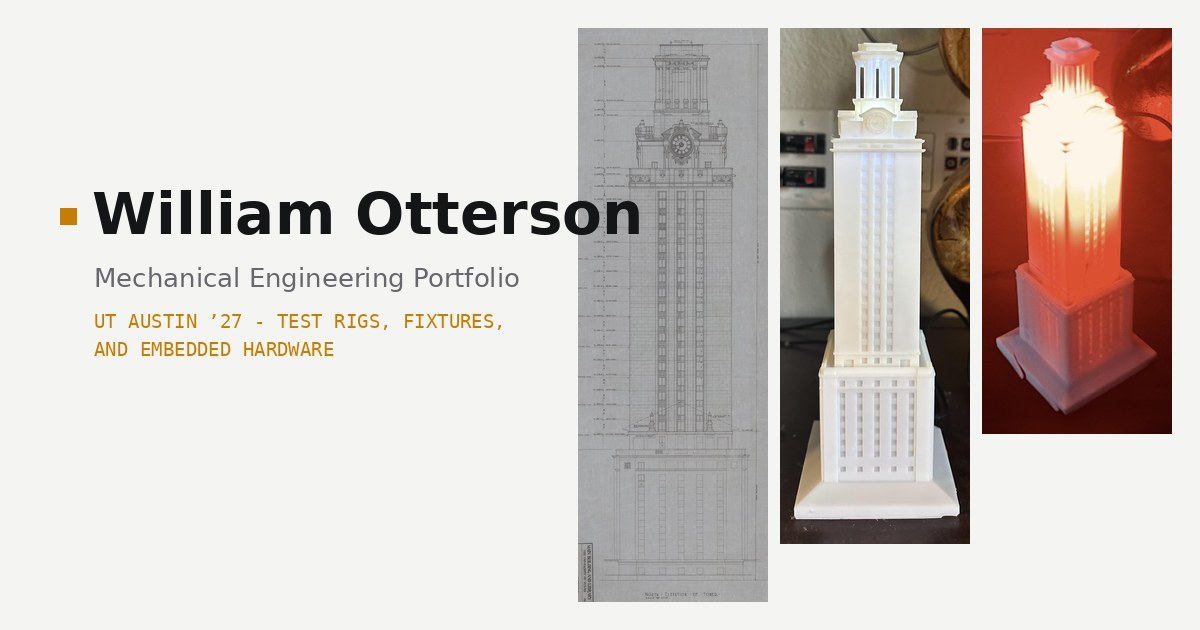
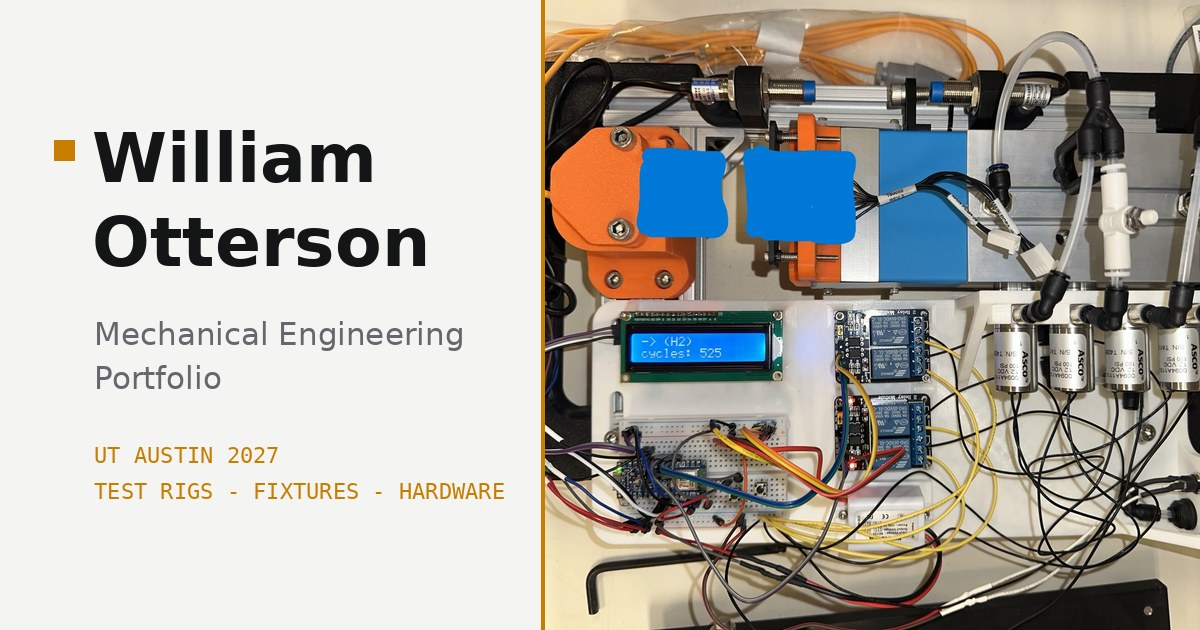
update

diff --git a/projects/international-biomedical.html b/projects/international-biomedical.html
@@ -1,0 +1,101 @@
+<!DOCTYPE html>
+<html lang="en">
+<head>
+<meta charset="utf-8">
+<meta name="viewport" content="width=device-width, initial-scale=1">
+<title>Neonatal phototherapy R&D, International Biomedical - William Otterson</title>
+<meta name="description" content="Current mechanical engineering internship at International Biomedical: physical design of a neonatal phototherapy device, freeform lens development, and test rigs for optics qualification.">
+<link rel="preconnect" href="https://fonts.googleapis.com">
+<link rel="preconnect" href="https://fonts.gstatic.com" crossorigin>
+<link href="https://fonts.googleapis.com/css2?family=Inter:wght@400;500;600;700&family=JetBrains+Mono:wght@400;500&display=swap" rel="stylesheet">
+<link rel="stylesheet" href="../style.css">
+<link rel="icon" type="image/png" href="../assets/img/favicon.png">
+<link rel="apple-touch-icon" href="../assets/img/apple-touch-icon.png">
+<meta property="og:type" content="website">
+<meta property="og:title" content="Neonatal phototherapy R&D, International Biomedical - William Otterson">
+<meta property="og:description" content="Current mechanical engineering internship at International Biomedical: physical design of a neonatal phototherapy device, freeform lens development, and test rigs for optics qualification.">
+<meta property="og:image" content="https://ottercadgh.github.io/assets/img/og-preview.jpg">
+<meta property="og:url" content="https://ottercadgh.github.io/projects/international-biomedical.html">
+<meta name="twitter:card" content="summary_large_image">
+</head>
+<body>
+
+<header class="site"><div class="wrap">
+  <a class="brand" href="../index.html"><i></i>William Otterson</a>
+  <nav><a class="on" href="../index.html#work">Work</a><a href="../index.html#about">About</a><a href="#" data-contact>Contact</a><a class="btn" href="../assets/WilliamOtterson_Resume.pdf" target="_blank" rel="noopener">Resume</a></nav>
+</div></header>
+
+<main class="wrap">
+
+  <div class="phead">
+    <div class="eyebrow">International Biomedical &middot; Mechanical Engineering Intern &middot; May 2026 to present</div>
+    <h1>Designing a phototherapy device for newborns</h1>
+    <p class="lede">My current internship. I lead the physical design of a neonatal phototherapy device, from concept through ten prototypes to a tested working unit: LEDs, optics, thermal management, internal packaging, and the enclosure, against clinical and regulatory requirements.</p>
+  </div>
+
+  <div class="glance">
+    <div><span class="k">Outcome</span><b>Working prototype, validated against the market leader</b>: intensive-level irradiance of 30 uW/cm2/nm or more across 99% of the treatment target</div>
+    <div><span class="k">My role</span>Physical design lead: component selection, optics, thermal, packaging, enclosure, plus the test rigs to qualify all of it</div>
+    <div><span class="k">Constraints</span>Clinical and regulatory requirements; ongoing commercial program, so specifics stay at resume level here</div>
+    <div><span class="k">Skills</span>Optics for illumination, thermal design, test rig design, GD&amp;T tooling, radiometric measurement</div>
+  </div>
+
+  <div class="narrow">
+    <h2>Setting the target, then beating it</h2>
+    <p>The program started with a benchmark: I mapped a leading competitor device with seven-point thermocouple measurements, irradiance readings across its operating modes, and power draw analysis, so our own targets were numbers rather than opinions. The prototype that came out of the program was then validated the same way, with a bili radiometer against the market-leading device: AAP intensive-level irradiance, 30 uW/cm2/nm or more, across 99% of the treatment target.</p>
+    <h2>The lens</h2>
+    <p>Illumination uniformity is the hard optical problem in phototherapy. I designed a freeform lens that reached 99.6% illumination uniformity, against 94.2% for a leading competitor lens, and built the workflow to iterate it in house: printed lens prototypes in a day instead of outside optics vendor timelines. The lens design runs through an in-house computational lens synthesizer I created; the program itself is proprietary, so that is all I can say about it here.</p>
+    <p>Printed optics had to earn their place before machined acrylic vendors got involved, so I built a blackbox transmission rig and measured the clear-coated SLA lenses at 93% white and 88% blue transmission.</p>
+    <h2>The unglamorous parts that ship</h2>
+    <p>I built FDM printed assembly jigs with GD&amp;T callouts through three revisions that halved adhesive strip application time while holding repeatable bezel alignment. Weekly design reviews to engineering leadership across an 11 week program kept all of it honest.</p>
+  </div>
+
+  <section class="tech">
+    <h2>Technical details</h2>
+    <div class="inner">
+      <table class="spec">
+        <tr><th>Device</th><td>Neonatal phototherapy unit; I lead physical design through 10 prototypes to a tested working unit</td></tr>
+        <tr><th>Benchmarking</th><td>Competitor device mapped with 7-point thermocouples, irradiance across operating modes, and power draw</td></tr>
+        <tr><th>Lens</th><td>Freeform lens at 99.6% illumination uniformity vs 94.2% for a leading competitor; designed with a proprietary in-house lens synthesizer I created (details withheld)</td></tr>
+        <tr><th>Optics qualification</th><td>Blackbox transmission rig: 93% white and 88% blue transmission through clear-coated SLA lenses</td></tr>
+        <tr><th>Validation</th><td>Bili radiometer vs the market-leading device: 30 uW/cm2/nm or more across 99% of the treatment target</td></tr>
+        <tr><th>Production support</th><td>FDM assembly jigs with GD&amp;T callouts, 3 revisions, halved adhesive strip application time</td></tr>
+        <tr><th>Status</th><td>Ongoing internship; this page stays at resume-level detail</td></tr>
+      </table>
+    </div>
+  </section>
+
+  <p class="note">This is an active commercial program, so there are no images here and the in-house software is described only by what it produces.</p>
+
+  <div class="pn">
+    <a href="../index.html#about">&larr; Back to about</a>
+    <a href="../index.html#work">All work &rarr;</a>
+  </div>
+
+</main>
+
+<footer class="site"><div class="wrap">
+  <span><a href="mailto:william.w.otterson@gmail.com">william.w.otterson@gmail.com</a> &middot; <a href="https://www.linkedin.com/in/williamwotterson">LinkedIn</a> &middot; <a href="https://github.com/OtterCadGH">GitHub</a></span>
+  <span>&copy; 2026 William Otterson &middot; Austin, TX</span>
+</div></footer>
+
+
+<dialog id="contact-dlg">
+  <h3>Contact</h3>
+  <p class="cd-row"><span>Email</span><a href="mailto:william.w.otterson@gmail.com">william.w.otterson@gmail.com</a></p>
+  <p class="cd-row"><span>Phone</span><a href="tel:+18087405886">(808) 740 5886</a></p>
+  <p class="cd-row"><span>LinkedIn</span><a href="https://www.linkedin.com/in/williamwotterson" target="_blank" rel="noopener">in/williamwotterson</a></p>
+  <button id="contact-close" type="button">Close</button>
+</dialog>
+<script>
+(function(){
+  var d = document.getElementById('contact-dlg');
+  document.querySelectorAll('a[data-contact]').forEach(function(a){
+    a.addEventListener('click', function(e){ e.preventDefault(); d.showModal(); });
+  });
+  document.getElementById('contact-close').addEventListener('click', function(){ d.close(); });
+  d.addEventListener('click', function(e){ if (e.target === d) d.close(); });
+})();
+</script>
+</body>
+</html>

diff --git a/projects/smith-nephew.html b/projects/smith-nephew.html
@@ -1,0 +1,100 @@
+<!DOCTYPE html>
+<html lang="en">
+<head>
+<meta charset="utf-8">
+<meta name="viewport" content="width=device-width, initial-scale=1">
+<title>R&D co-op, Smith+Nephew - William Otterson</title>
+<meta name="description" content="Seven months of medical device R&D at Smith+Nephew ENT: test rigs, production fixtures, a thermal redesign to IEC 60601, and the in-house print farm.">
+<link rel="preconnect" href="https://fonts.googleapis.com">
+<link rel="preconnect" href="https://fonts.gstatic.com" crossorigin>
+<link href="https://fonts.googleapis.com/css2?family=Inter:wght@400;500;600;700&family=JetBrains+Mono:wght@400;500&display=swap" rel="stylesheet">
+<link rel="stylesheet" href="../style.css">
+<link rel="icon" type="image/png" href="../assets/img/favicon.png">
+<link rel="apple-touch-icon" href="../assets/img/apple-touch-icon.png">
+<meta property="og:type" content="website">
+<meta property="og:title" content="R&D co-op, Smith+Nephew - William Otterson">
+<meta property="og:description" content="Seven months of medical device R&D at Smith+Nephew ENT: test rigs, production fixtures, a thermal redesign to IEC 60601, and the in-house print farm.">
+<meta property="og:image" content="https://ottercadgh.github.io/assets/img/og-preview.jpg">
+<meta property="og:url" content="https://ottercadgh.github.io/projects/smith-nephew.html">
+<meta name="twitter:card" content="summary_large_image">
+</head>
+<body>
+
+<header class="site"><div class="wrap">
+  <a class="brand" href="../index.html"><i></i>William Otterson</a>
+  <nav><a class="on" href="../index.html#work">Work</a><a href="../index.html#about">About</a><a href="#" data-contact>Contact</a><a class="btn" href="../assets/WilliamOtterson_Resume.pdf" target="_blank" rel="noopener">Resume</a></nav>
+</div></header>
+
+<main class="wrap">
+
+  <div class="phead">
+    <div class="eyebrow">Smith+Nephew &middot; R&amp;D Engineer Co-op, ENT &middot; Jun to Dec 2025</div>
+    <h1>Seven months of building the things that test the things</h1>
+    <p class="lede">A co-op on an electrosurgical controller program in medical device R&amp;D. The two biggest builds have their own pages: the <a href="connector-cycler.html">connector lifetime test rig</a> and the <a href="press-fixture.html">pneumatic lamination press</a>. This page covers the rest of the job.</p>
+  </div>
+
+  <div class="glance">
+    <div><span class="k">Outcome</span><b>Two fixtures handed off with full documentation</b>, a thermal redesign to IEC 60601 compliance, and a 3.5x stronger test fixture released through change control</div>
+    <div><span class="k">My role</span>R&amp;D engineering co-op: test rigs, fixtures, thermal work, and the in-house print farm</div>
+    <div><span class="k">Constraints</span>Medical device rigor: everything documented, everything through change control; proprietary hardware, so no photos beyond the two project pages</div>
+    <div><span class="k">Skills</span>Test rig design, pneumatics, thermal instrumentation, Python data logging, DFM, PLM change control, additive manufacturing</div>
+  </div>
+
+  <div class="narrow">
+    <h2>The thermal redesign</h2>
+    <p>The controller had components running hotter than IEC 60601 allows. I instrumented the unit with 16 thermocouples, logged everything in Python, and used the maps to drive a cooling redesign that brought component temperatures down 5 degrees C to compliant levels. The same data made the case for the change in review, which mattered as much as the fix.</p>
+    <h2>The ablation fixture, 3.5x stronger</h2>
+    <p>A 3D printed ablation test fixture kept snapping its locating pin. The failure was print orientation: FDM layer lines ran perpendicular to the bending load and acted as a shear plane. I split the pin into a separate keyed body so the base prints upright and the pin prints with its layers along the load path, then quantified the fix with a cantilever test before release. Bending strength improved about 3.5x, and the fixture was released as a new revision through PLM change control with 15+ cross-functional signatures.</p>
+    <h2>The print farm</h2>
+    <p>I also ran the team's in-house additive manufacturing: seven FDM and SLA printers (Fortus, Bambu Lab, Asiga), tuning print parameters and materials so parts came out strong enough to test with and fast enough to keep programs moving.</p>
+    <h2>The two big builds</h2>
+    <p>The <a href="connector-cycler.html">connector cycler</a> ran 7,500 verified plug/unplug cycles per receptacle and caught an undocumented vendor spring substitution before formal testing. The <a href="press-fixture.html">lamination press</a> bonds the controller's front assembly at 125 lb for 10 s with no electronics in the control path. Both pages have photos, video, and full technical detail.</p>
+  </div>
+
+  <section class="tech">
+    <h2>Technical details</h2>
+    <div class="inner">
+      <table class="spec">
+        <tr><th>Program</th><td>Electrosurgical controller, ENT division, Austin TX</td></tr>
+        <tr><th>Thermal</th><td>16-thermocouple mapping with Python logging; cooling redesign brought components down 5 C to IEC 60601 compliant levels</td></tr>
+        <tr><th>Ablation fixture</th><td>Layer-orientation redesign of a failing locating pin; ~3.5x bending strength, proven by cantilever test, released via PLM with 15+ signatures</td></tr>
+        <tr><th>Print farm</th><td>7 FDM and SLA printers (Fortus, Bambu Lab, Asiga); parameters and materials tuned for strength and throughput</td></tr>
+        <tr><th>Dedicated pages</th><td><a href="connector-cycler.html">Connector lifetime test rig</a> &middot; <a href="press-fixture.html">Pneumatic lamination press</a></td></tr>
+      </table>
+    </div>
+  </section>
+
+  <p class="note">The hardware is proprietary; the only photos are on the two project pages, with the connector obscured.</p>
+
+  <div class="pn">
+    <a href="../index.html#about">&larr; Back to about</a>
+    <a href="../index.html#work">All work &rarr;</a>
+  </div>
+
+</main>
+
+<footer class="site"><div class="wrap">
+  <span><a href="mailto:william.w.otterson@gmail.com">william.w.otterson@gmail.com</a> &middot; <a href="https://www.linkedin.com/in/williamwotterson">LinkedIn</a> &middot; <a href="https://github.com/OtterCadGH">GitHub</a></span>
+  <span>&copy; 2026 William Otterson &middot; Austin, TX</span>
+</div></footer>
+
+
+<dialog id="contact-dlg">
+  <h3>Contact</h3>
+  <p class="cd-row"><span>Email</span><a href="mailto:william.w.otterson@gmail.com">william.w.otterson@gmail.com</a></p>
+  <p class="cd-row"><span>Phone</span><a href="tel:+18087405886">(808) 740 5886</a></p>
+  <p class="cd-row"><span>LinkedIn</span><a href="https://www.linkedin.com/in/williamwotterson" target="_blank" rel="noopener">in/williamwotterson</a></p>
+  <button id="contact-close" type="button">Close</button>
+</dialog>
+<script>
+(function(){
+  var d = document.getElementById('contact-dlg');
+  document.querySelectorAll('a[data-contact]').forEach(function(a){
+    a.addEventListener('click', function(e){ e.preventDefault(); d.showModal(); });
+  });
+  document.getElementById('contact-close').addEventListener('click', function(){ d.close(); });
+  d.addEventListener('click', function(e){ if (e.target === d) d.close(); });
+})();
+</script>
+</body>
+</html>

diff --git a/projects/gopro.html b/projects/gopro.html
@@ -1,0 +1,83 @@
+<!DOCTYPE html>
+<html lang="en">
+<head>
+<meta charset="utf-8">
+<meta name="viewport" content="width=device-width, initial-scale=1">
+<title>Product evaluation, GoPro - William Otterson</title>
+<meta name="description" content="Field testing a pre-release GoPro accessory prototype on Maui that shipped as the GoPro Volta.">
+<link rel="preconnect" href="https://fonts.googleapis.com">
+<link rel="preconnect" href="https://fonts.gstatic.com" crossorigin>
+<link href="https://fonts.googleapis.com/css2?family=Inter:wght@400;500;600;700&family=JetBrains+Mono:wght@400;500&display=swap" rel="stylesheet">
+<link rel="stylesheet" href="../style.css">
+<link rel="icon" type="image/png" href="../assets/img/favicon.png">
+<link rel="apple-touch-icon" href="../assets/img/apple-touch-icon.png">
+<meta property="og:type" content="website">
+<meta property="og:title" content="Product evaluation, GoPro - William Otterson">
+<meta property="og:description" content="Field testing a pre-release GoPro accessory prototype on Maui that shipped as the GoPro Volta.">
+<meta property="og:image" content="https://ottercadgh.github.io/assets/img/og-preview.jpg">
+<meta property="og:url" content="https://ottercadgh.github.io/projects/gopro.html">
+<meta name="twitter:card" content="summary_large_image">
+</head>
+<body>
+
+<header class="site"><div class="wrap">
+  <a class="brand" href="../index.html"><i></i>William Otterson</a>
+  <nav><a class="on" href="../index.html#work">Work</a><a href="../index.html#about">About</a><a href="#" data-contact>Contact</a><a class="btn" href="../assets/WilliamOtterson_Resume.pdf" target="_blank" rel="noopener">Resume</a></nav>
+</div></header>
+
+<main class="wrap">
+
+  <div class="phead">
+    <div class="eyebrow">GoPro &middot; Product Evaluation Tester &middot; Jan to Mar 2022, Maui, HI</div>
+    <h1>Field testing what became the GoPro Volta</h1>
+    <p class="lede">A short early gig, and my first taste of structured product development: field testing a functional pre-release accessory prototype for GoPro and feeding usability findings back to the team before launch.</p>
+  </div>
+
+  <div class="narrow">
+    <p>GoPro placed a working prototype of an unreleased accessory with testers on Maui, and I put it through real use: surf, sand, salt water, and everyday handling, the environment the product was actually built for. My job was to report structured usability feedback, what worked, what fought me, what broke and how, in a form the development team could act on. The product shipped as the GoPro Volta.</p>
+    <p>It was a small role, but it is where I first saw the loop I now work inside from the other end: prototype, put it in real conditions, write down what actually happened, change the design.</p>
+  </div>
+
+  <section class="tech">
+    <h2>Technical details</h2>
+    <div class="inner">
+      <table class="spec">
+        <tr><th>Product</th><td>Pre-release functional accessory prototype; shipped as the GoPro Volta</td></tr>
+        <tr><th>My role</th><td>Field testing in real conditions on Maui; structured usability reporting ahead of launch</td></tr>
+        <tr><th>Duration</th><td>January to March 2022</td></tr>
+      </table>
+    </div>
+  </section>
+
+  <div class="pn">
+    <a href="../index.html#about">&larr; Back to about</a>
+    <a href="../index.html#work">All work &rarr;</a>
+  </div>
+
+</main>
+
+<footer class="site"><div class="wrap">
+  <span><a href="mailto:william.w.otterson@gmail.com">william.w.otterson@gmail.com</a> &middot; <a href="https://www.linkedin.com/in/williamwotterson">LinkedIn</a> &middot; <a href="https://github.com/OtterCadGH">GitHub</a></span>
+  <span>&copy; 2026 William Otterson &middot; Austin, TX</span>
+</div></footer>
+
+
+<dialog id="contact-dlg">
+  <h3>Contact</h3>
+  <p class="cd-row"><span>Email</span><a href="mailto:william.w.otterson@gmail.com">william.w.otterson@gmail.com</a></p>
+  <p class="cd-row"><span>Phone</span><a href="tel:+18087405886">(808) 740 5886</a></p>
+  <p class="cd-row"><span>LinkedIn</span><a href="https://www.linkedin.com/in/williamwotterson" target="_blank" rel="noopener">in/williamwotterson</a></p>
+  <button id="contact-close" type="button">Close</button>
+</dialog>
+<script>
+(function(){
+  var d = document.getElementById('contact-dlg');
+  document.querySelectorAll('a[data-contact]').forEach(function(a){
+    a.addEventListener('click', function(e){ e.preventDefault(); d.showModal(); });
+  });
+  document.getElementById('contact-close').addEventListener('click', function(){ d.close(); });
+  d.addEventListener('click', function(e){ if (e.target === d) d.close(); });
+})();
+</script>
+</body>
+</html>

diff --git a/projects/press-fixture.html b/projects/press-fixture.html
@@ -127,6 +127,7 @@
       <h2>The control box</h2>
       <p>I designed and built the control box as well. Inside is the air logic controller that runs the whole cycle; there is nothing electrical to validate, and the dwell timer is user-adjustable, so the same box covers a different adhesive spec by turning a dial rather than reprogramming anything.</p>
       <p>The safety is built into the air logic. The cycle only fires from two green start buttons spaced so the operator needs both hands on the box, away from the platen, to start a press, and an orange emergency stop retracts the slide immediately, no matter where the timer is in its dwell.</p>
+      <p>The slide looks oversized in the photo because it is: it can put out up to about 450 lb, regulated down to the 125 lb this adhesive needs. That was deliberate. Underneath the specific nest and press foot, the rig is a general-purpose press: force set on the regulator, dwell set on the timer, self-resetting, with an emergency stop, and no electronics anywhere. Swap the mating faces and it presses the next assembly with the same guarantees.</p>
     </div>
   </div>
 
@@ -140,7 +141,7 @@
     <h2>Technical details</h2>
     <div class="inner">
       <table class="spec">
-        <tr><th>Force / dwell</th><td>125 lb for 10 s, set by the regulator and a self-resetting pneumatic timer; the dwell is user-adjustable on the control box</td></tr>
+        <tr><th>Force / dwell</th><td>125 lb for 10 s per the adhesive spec, set by the regulator and a self-resetting pneumatic timer; the slide itself is capable of up to about 450 lb, and both force and dwell are adjustable on the control box</td></tr>
         <tr><th>Alignment</th><td>Bezel located to &plusmn;0.05 in by a self-locating nest: locating pins receive the bezel's geometry</td></tr>
         <tr><th>Mating faces</th><td>Swappable nest and press-foot sets: one for touchscreen-to-bezel, one for membrane-to-bezel, on the same frame and control box</td></tr>
         <tr><th>Control</th><td>Air logic controller in a custom control box I designed and built; fully pneumatic, no electrical components, no software</td></tr>

diff --git a/index.html b/index.html
@@ -97,10 +97,10 @@
     <div>
       <h2>Experience</h2>
       <ul class="exp">
-        <li><div><b>International Biomedical</b><span>Mechanical Engineering Intern, Austin, TX</span></div><i>May 2026 - now</i></li>
-        <li><div><b>Smith+Nephew</b><span>R&amp;D Engineer Co-op, ENT, Austin, TX</span></div><i>Jun - Dec 2025</i></li>
+        <li><div><b>International Biomedical</b><span>Mechanical Engineering Intern, Austin, TX &middot; <a href="projects/international-biomedical.html">details</a></span></div><i>May 2026 - now</i></li>
+        <li><div><b>Smith+Nephew</b><span>R&amp;D Engineer Co-op, ENT, Austin, TX &middot; <a href="projects/smith-nephew.html">details</a></span></div><i>Jun - Dec 2025</i></li>
         <li><div><b>MINIMAX Lab, UT Austin</b><span>Research Assistant, micropumps + textbook storyboards &middot; <a href="projects/minimax-micropumps.html">details</a></span></div><i>Aug 2024 - Apr 2026</i></li>
-        <li><div><b>GoPro</b><span>Product Evaluation Tester, Maui, HI</span></div><i>Jan - Mar 2022</i></li>
+        <li><div><b>GoPro</b><span>Product Evaluation Tester, Maui, HI &middot; <a href="projects/gopro.html">details</a></span></div><i>Jan - Mar 2022</i></li>
       </ul>
     </div>
   </section>
